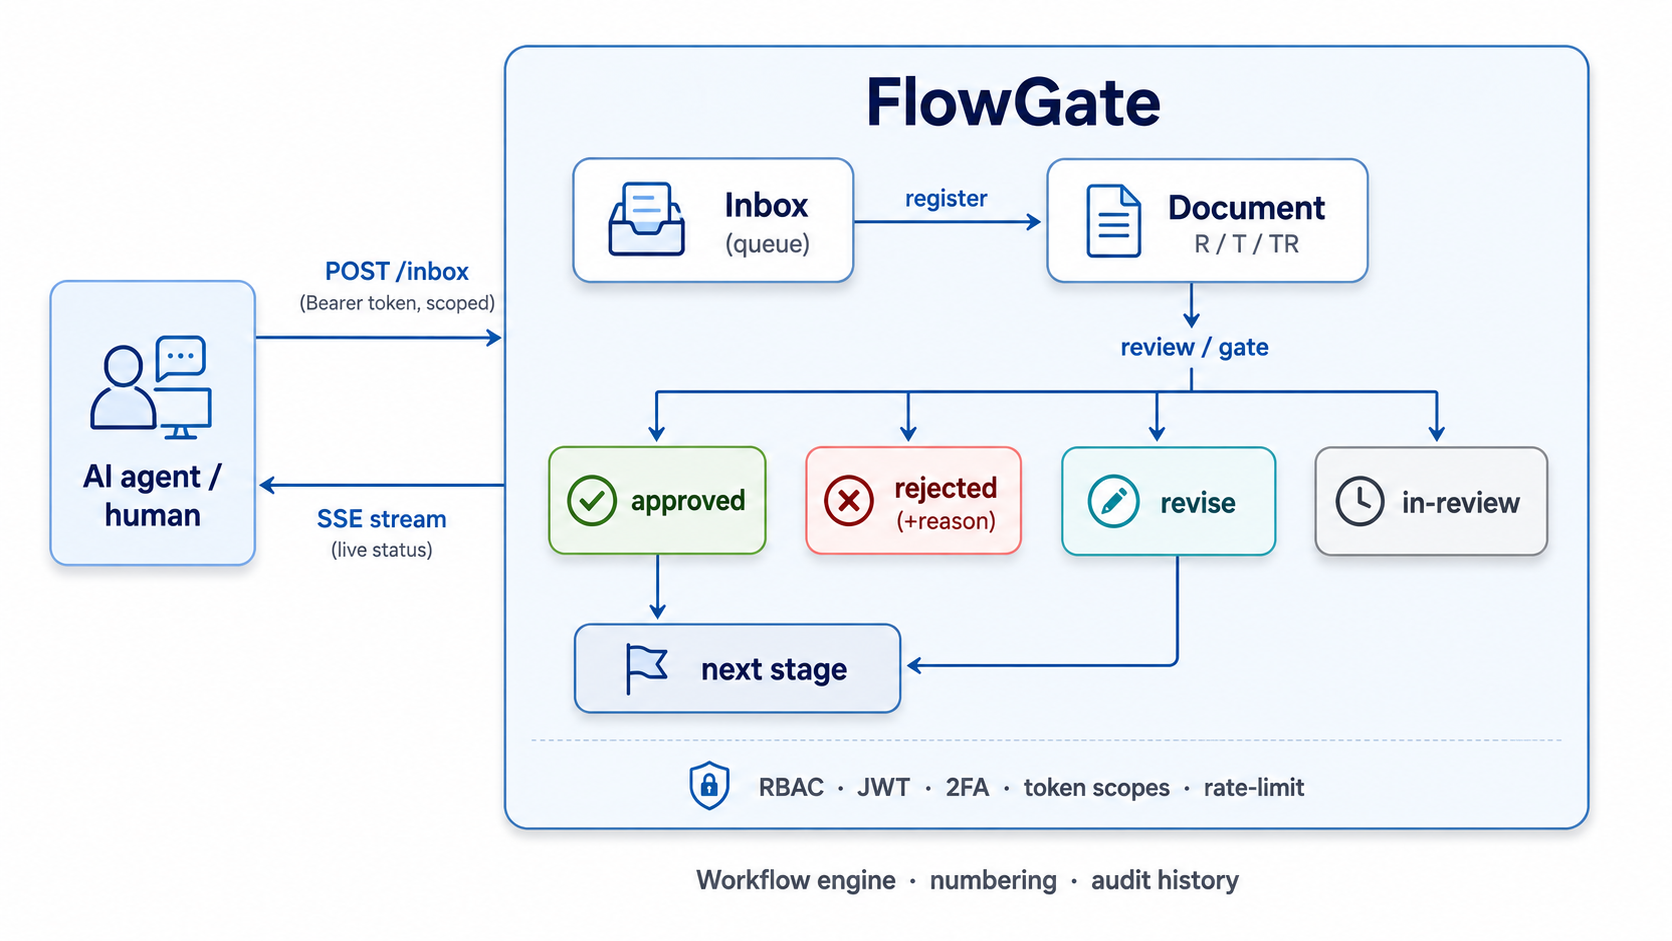
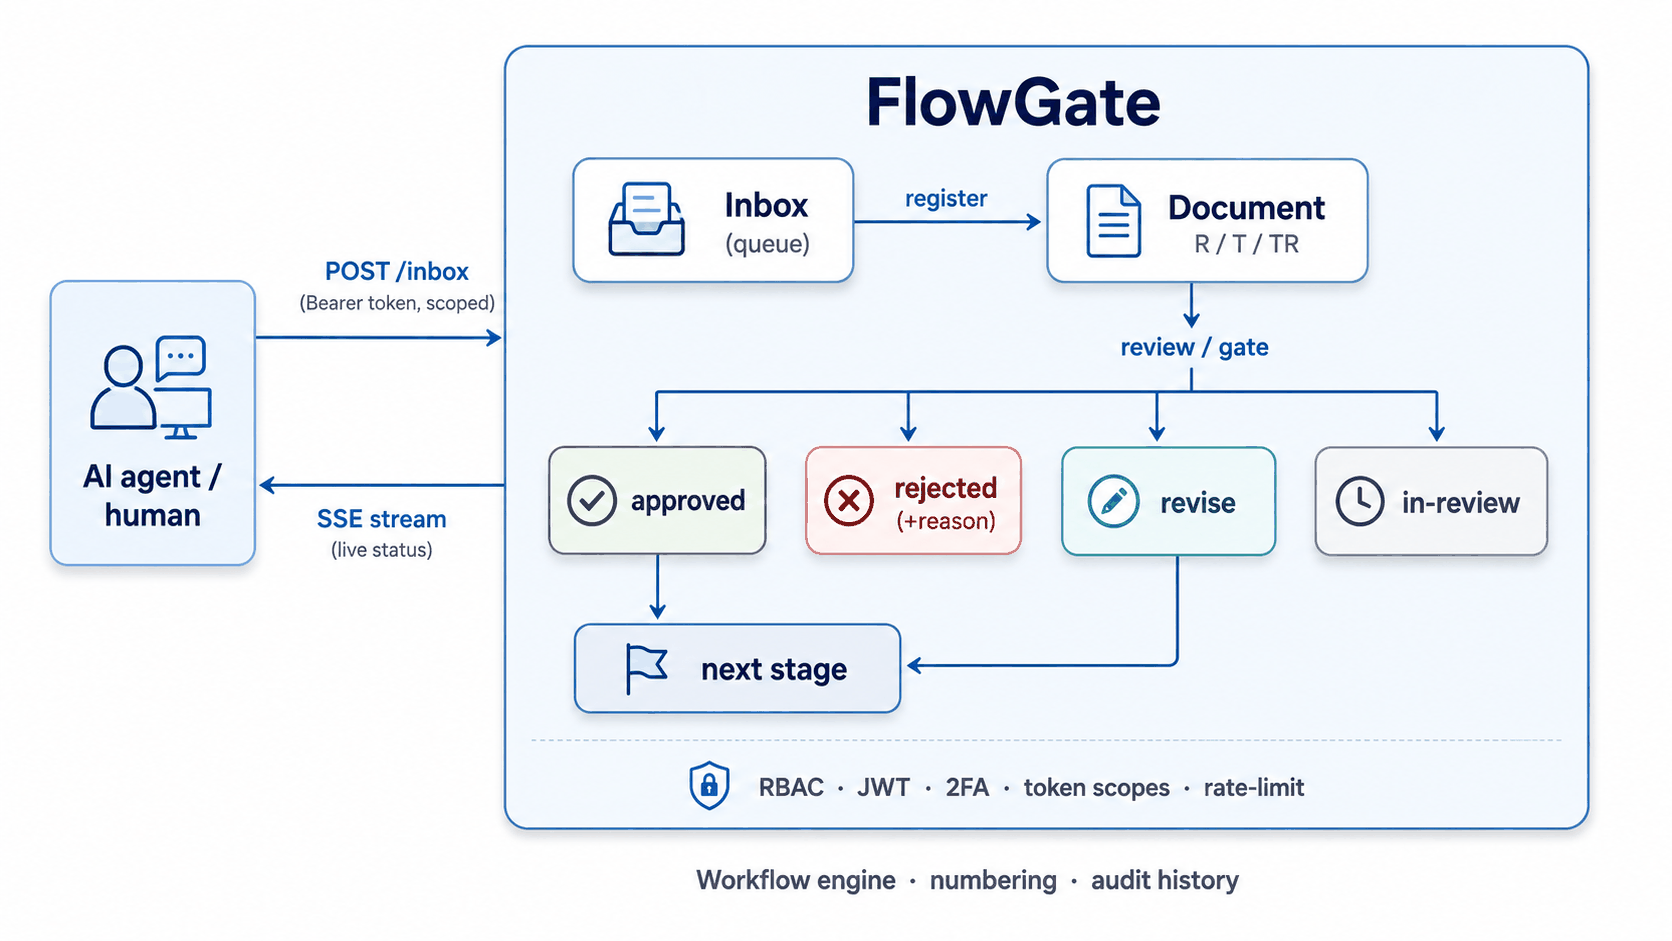
docs(assets): update README and refresh images

diff --git a/README.md b/README.md
@@ -19,8 +19,7 @@ A typed document pipeline that makes AI agents **prove** their work before it co
 
 ***The agent didn't lie. It just never had to be right.***
 
-<!-- TODO: drop a 10–15s demo GIF here — submit a doc via the remote API, watch it land in the inbox,
-     get reviewed, rejected, revised, and approved. The GIF is the single most persuasive asset on this page. -->
+![FlowGate dashboard](assets/images/flowgate-dashboard-v0.1.png)
 
 </div>
 
